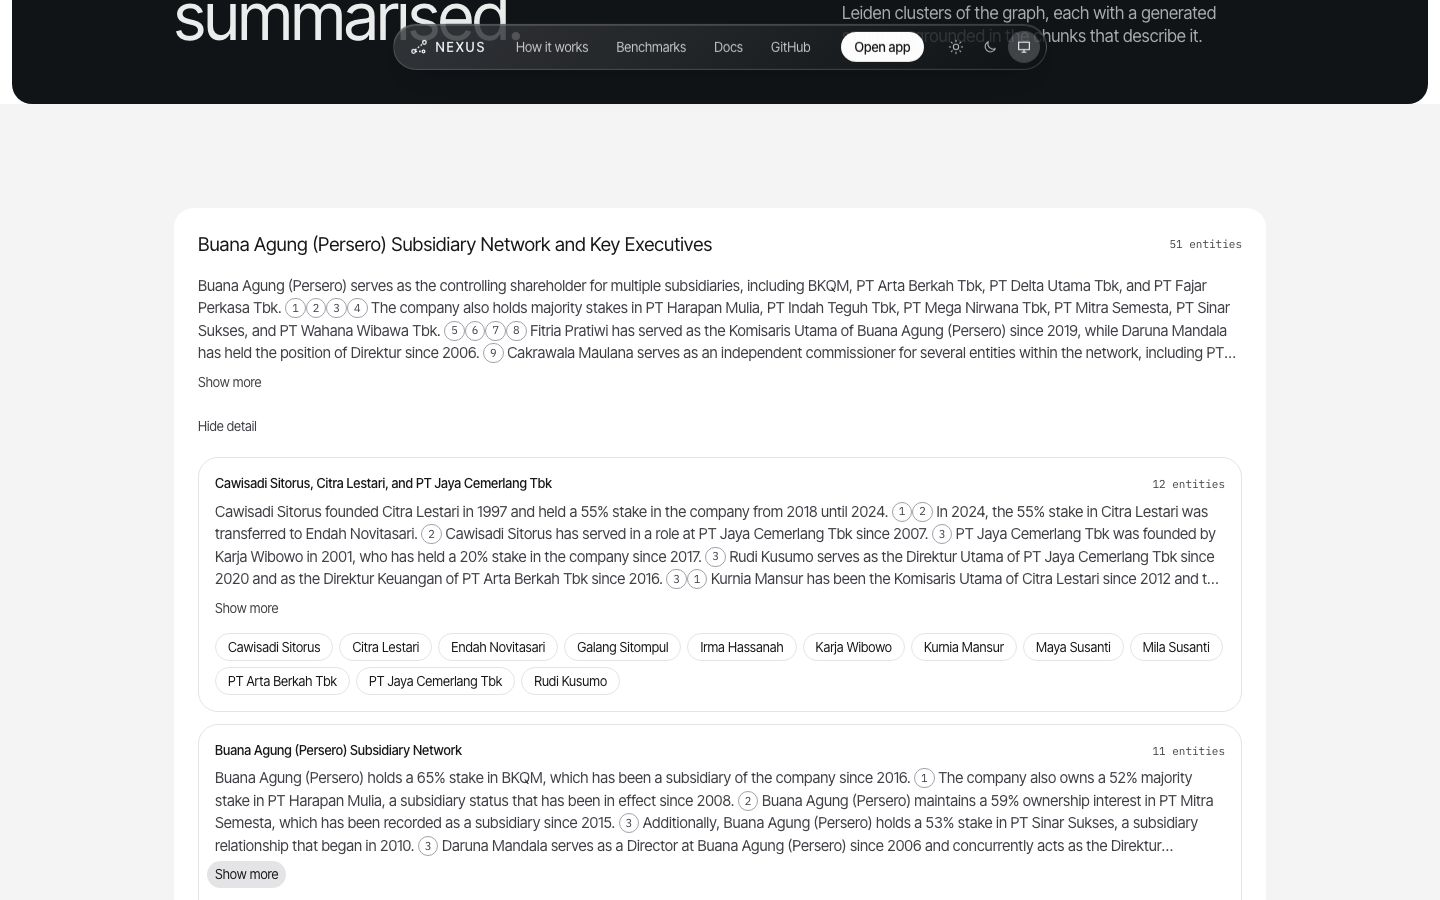
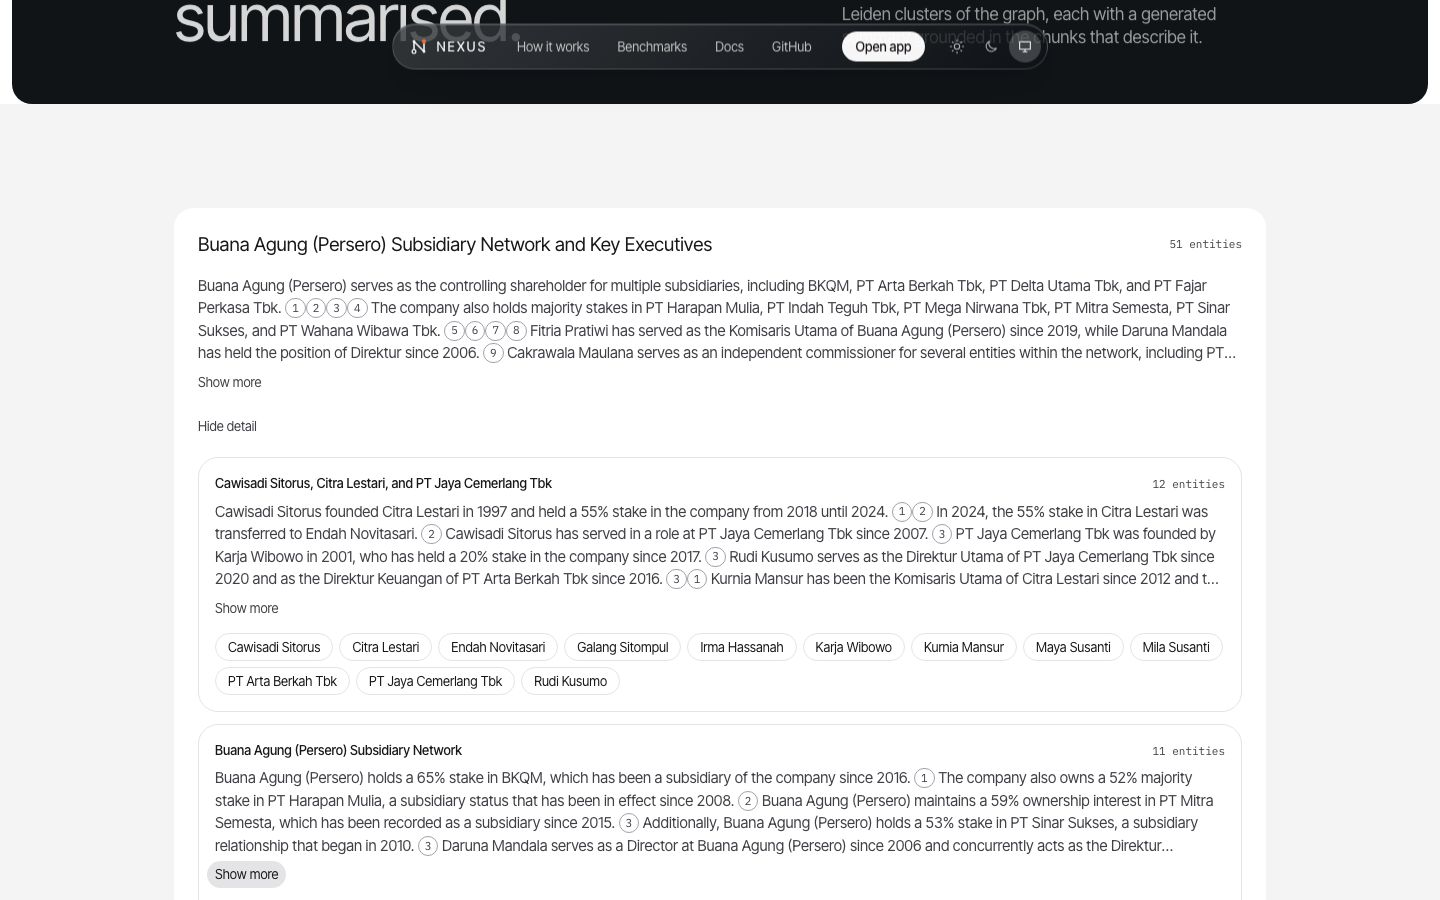
fix: serve graph endpoints without Milvus
Graph and community endpoints only read Neo4j but resolved the full
retrieval deps, so they returned 500 whenever Milvus was unreachable.
Give them their own cached GraphStore. Refresh the Explore and Themes
screenshots with the new logo.

diff --git a/backend/nexus/api/deps.py b/backend/nexus/api/deps.py
@@ -1,9 +1,8 @@
 from collections.abc import Callable, Iterator
 from functools import lru_cache
-from typing import Annotated
 
 import psycopg
-from fastapi import Depends, Header, HTTPException
+from fastapi import Header, HTTPException
 
 from nexus.checks import CHECKS
 from nexus.config import Settings
@@ -24,10 +23,10 @@ def get_deps() -> Deps:
     return default_deps()
 
 
-def get_graph(deps: Annotated[Deps, Depends(get_deps)]) -> GraphStore:
-    if deps.graph is None:
-        raise HTTPException(status_code=503, detail="graph store unavailable")
-    return deps.graph
+@lru_cache
+def get_graph() -> GraphStore:
+    # Graph endpoints only read Neo4j; going through get_deps would also require Milvus to be up.
+    return GraphStore()
 
 
 def get_conn() -> Iterator[psycopg.Connection]:
